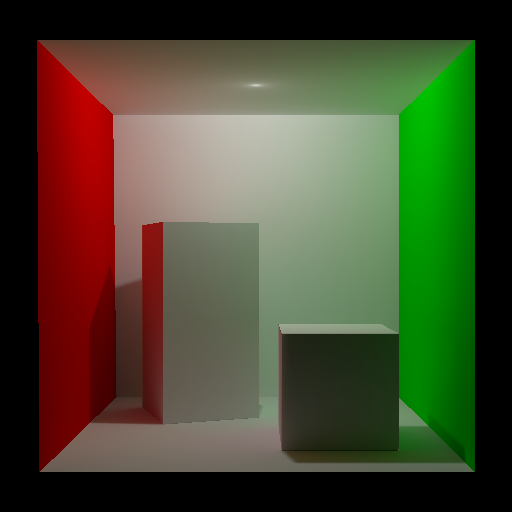
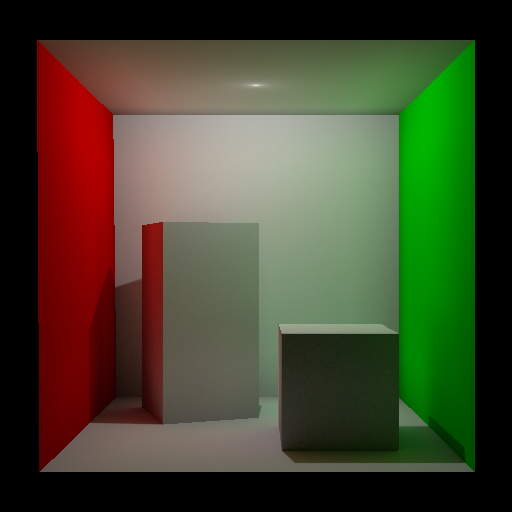
update

diff --git a/README.md b/README.md
@@ -3,5 +3,5 @@
 Screenshot | Method
 ------------ | -------------
 ![image](Screenshot/DirectOnly.png) | DirectOnly
-![image](Screenshot/Progressive.png) | ProgressiveBaked
+![image](Screenshot/Progressive.png) | ProgressiveBaked<br><br> bounce=4 nofilter
 ![image](Screenshot/InstantRadiosity64x16.png) | InstantRadiosity<br><br>410 vpls
